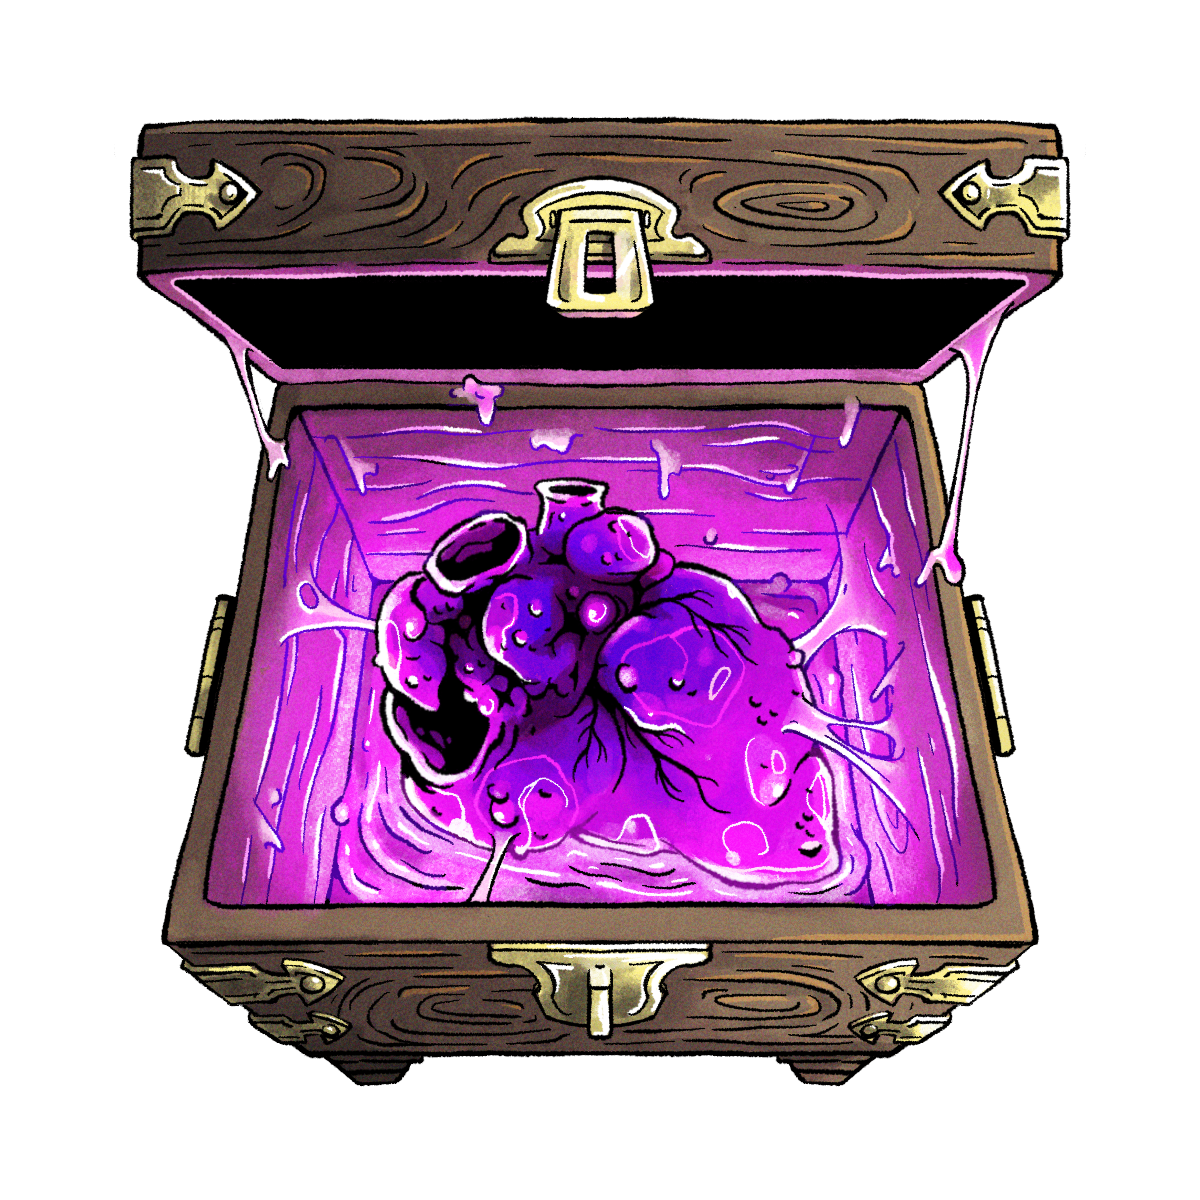
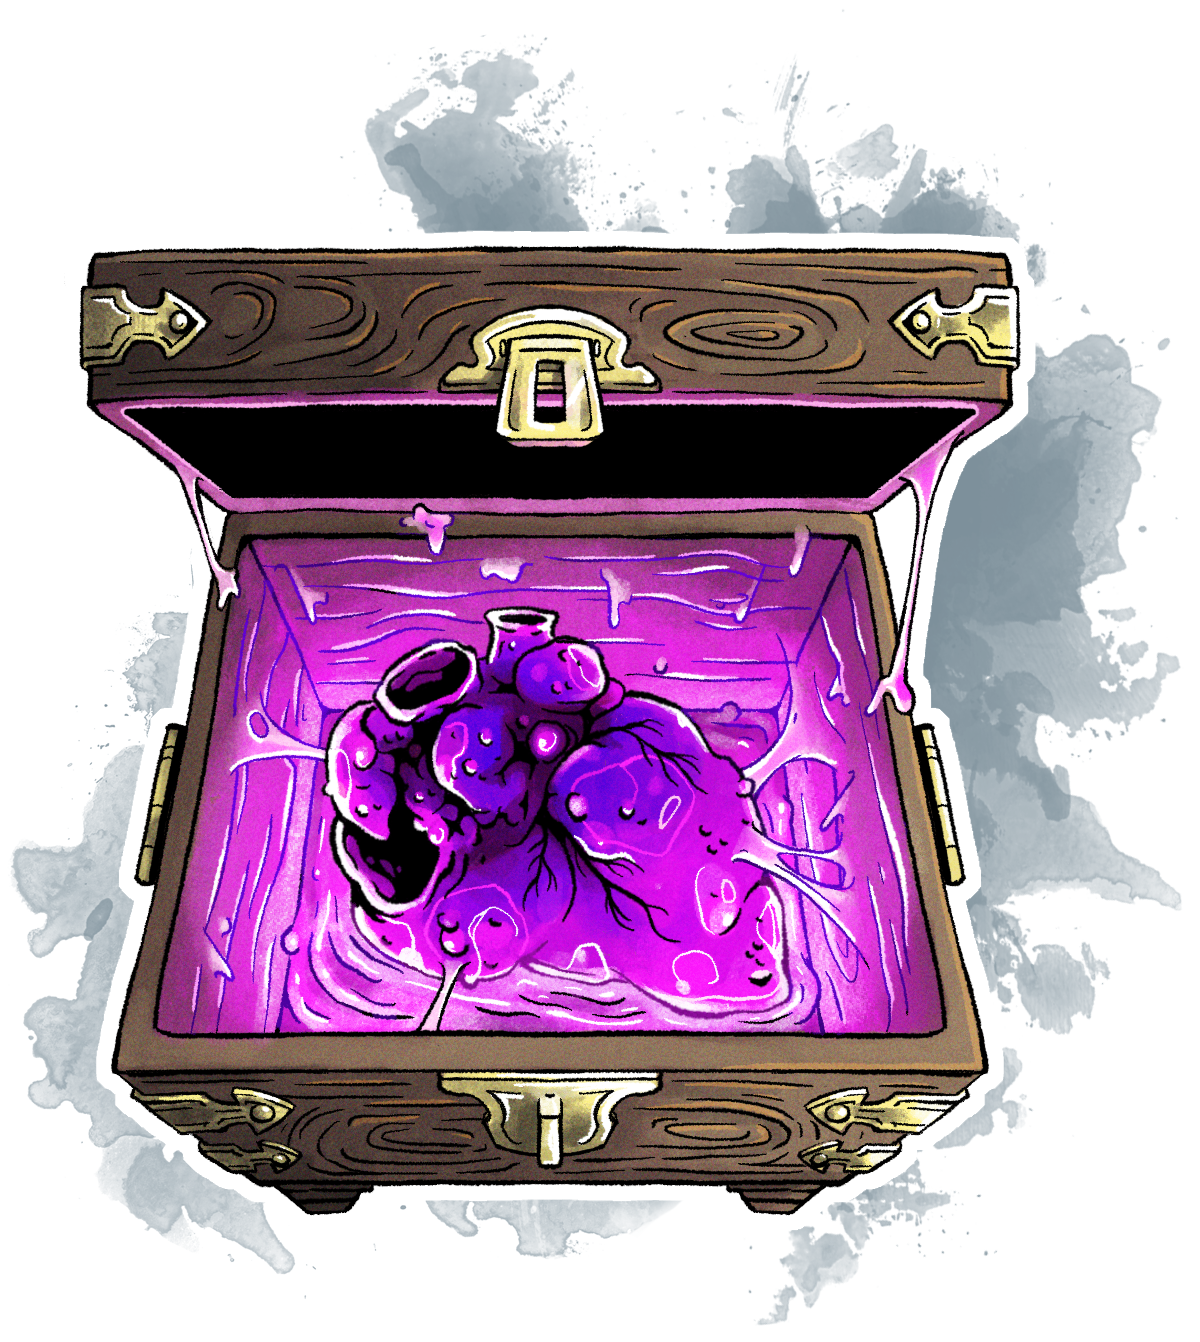
otherworldly heart art

diff --git a/_posts/wondrous/K-O/2021-03-27-otherwordly-heart.md b/_posts/wondrous/K-O/2021-03-27-otherwordly-heart.md
@@ -23,7 +23,8 @@ tags:
   - Resurrection
   - Hit Points
   - Body Modification
-item_image: "/images/item_art/dark-pheonix-gauntlet.png"
+item_image: "/images/item_art/otherworldly-heart.png"
+image_artist: Odd Gob
 item_idea: 
 item_co_creator: 
 item_updated: 
